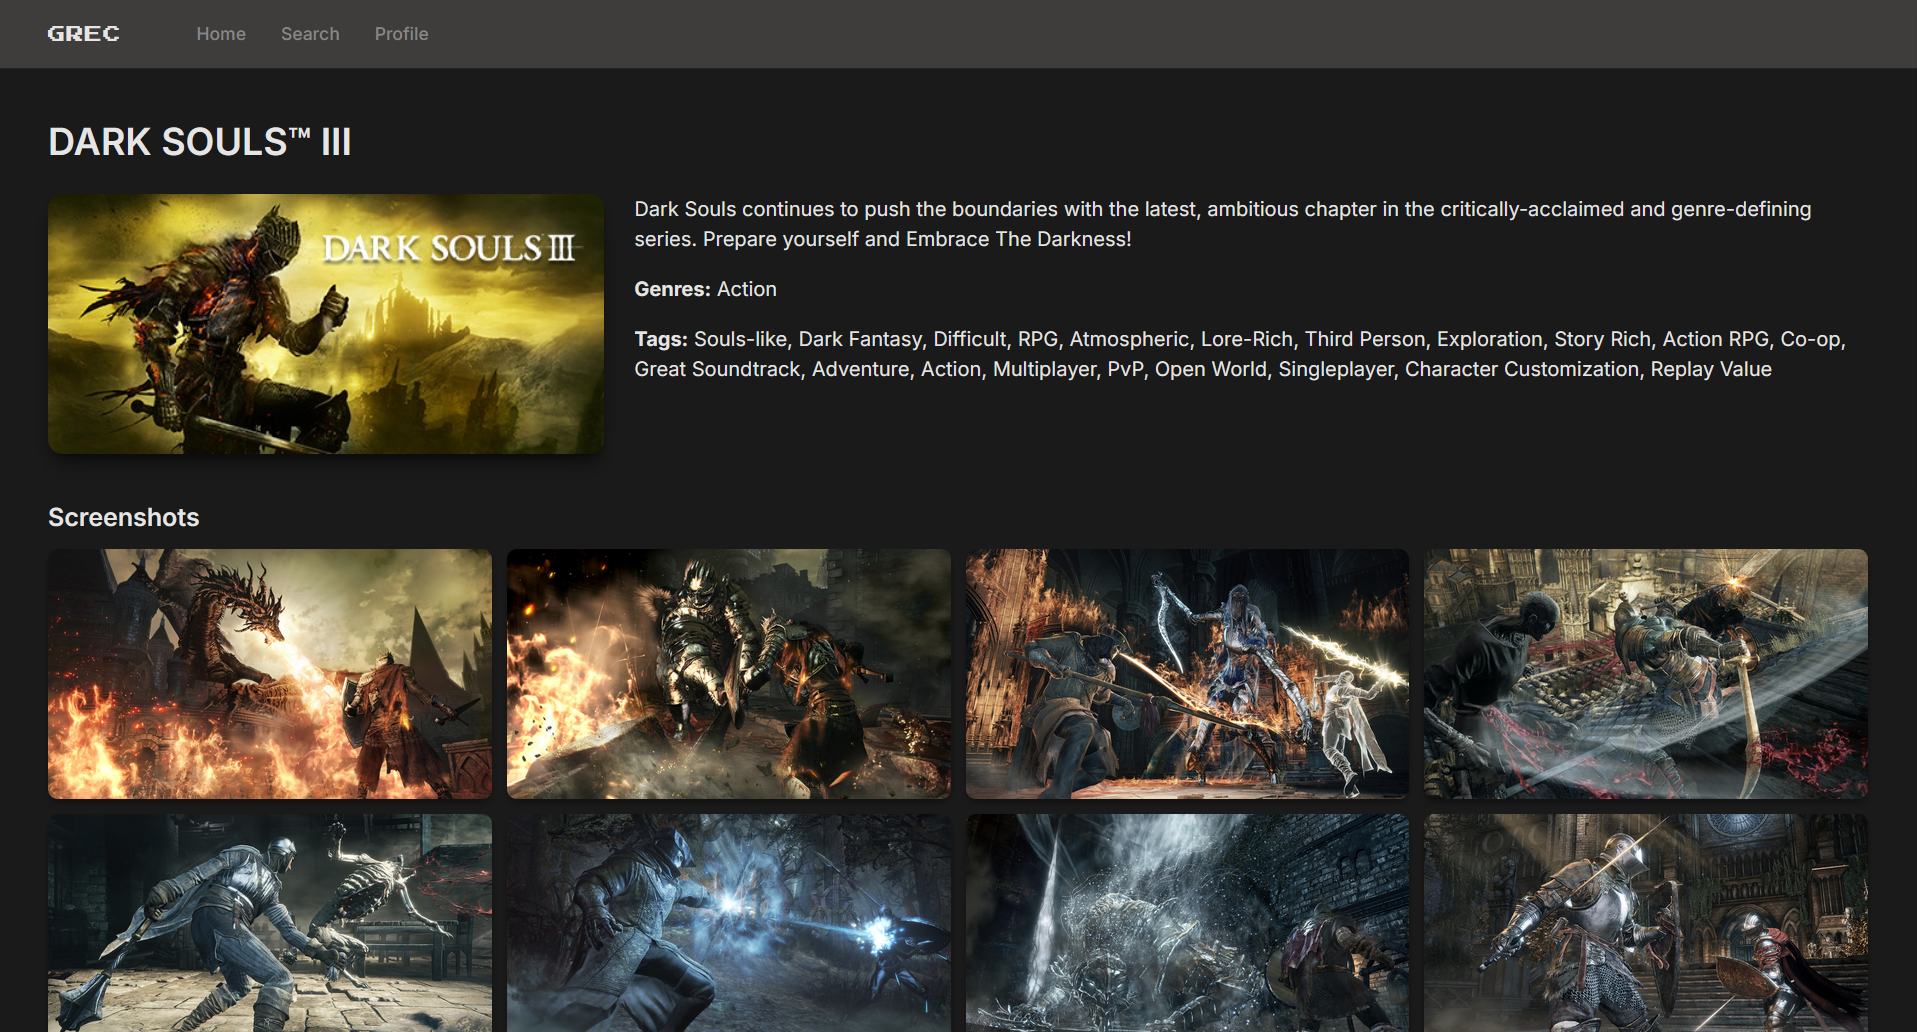
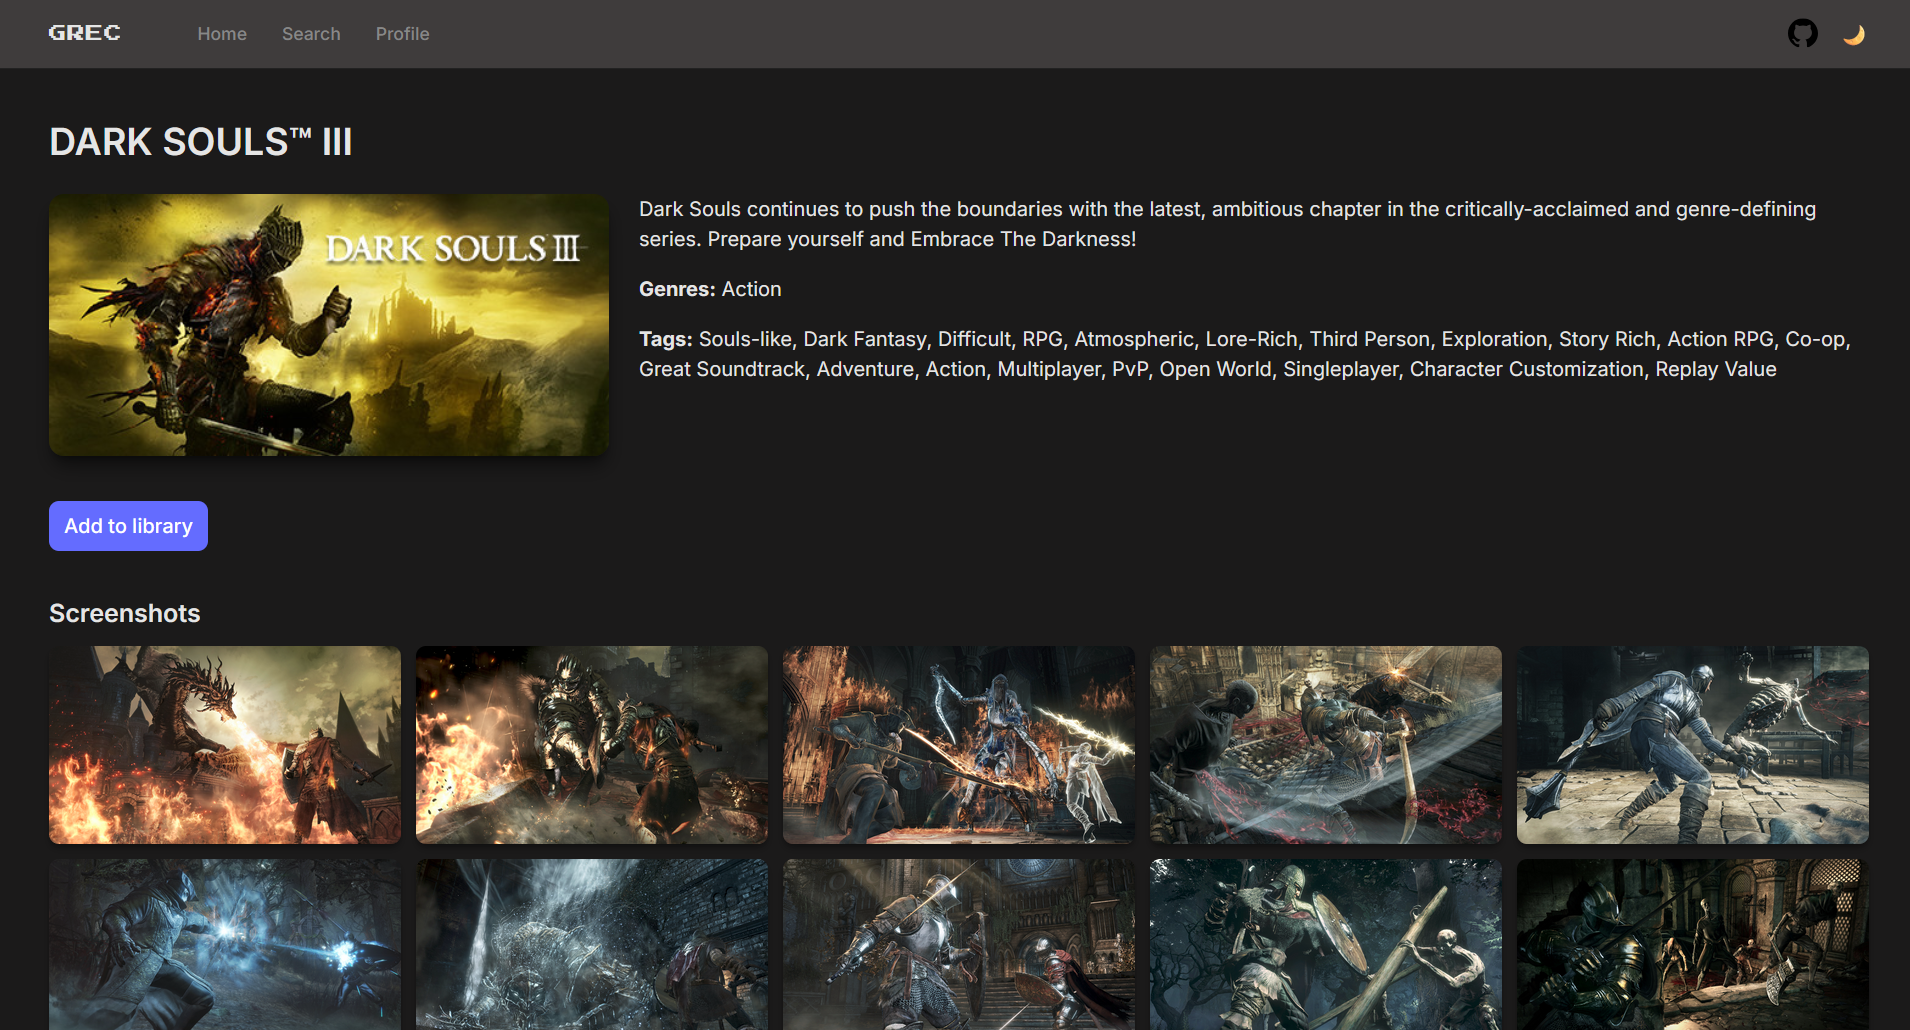
docs: update readme with updated screenshots and add deployment info

diff --git a/README.md b/README.md
@@ -4,6 +4,8 @@ GREC lets you search for a Steam game and get a ranked list of similar titles. R
 
 Try it live at [grec.blaxelt.com/](https://grec.blaxelt.com/).
 
+The application is deployed using Docker containers on a VPS, reverse-proxied through Caddy, with automated deployments via GitHub Actions.
+
 ## How it works
 
 1. **Pipeline** - downloads the [Steam Games Dataset](https://www.kaggle.com/datasets/fronkongames/steam-games-dataset) from Kaggle, cleans the data, builds a composite feature vector per game, and stores everything in PostgreSQL via `pgvector`. Trains the ALS model on the [Game Recommendations on Steam Dataset](https://www.kaggle.com/datasets/antonkozyriev/game-recommendations-on-steam).
@@ -67,6 +69,10 @@ docker compose up
 
 ![Game details](./img/game_details_2.png)
 
+### Search Page
+
+![Search Page](./img/searchpage.png)
+
 ### Profile
 
 ![Profile](./img/library.png)
@@ -80,7 +86,7 @@ docker compose up
 - **Collaborative filtering** - `implicit`
 - **Backend** - FastAPI + SQLModel
 - **Frontend** - React + Vite + TanStack Query
-- **CI** - GitHub Actions
+- **CI/CD** - GitHub Actions
 
 ## Limitations
 
